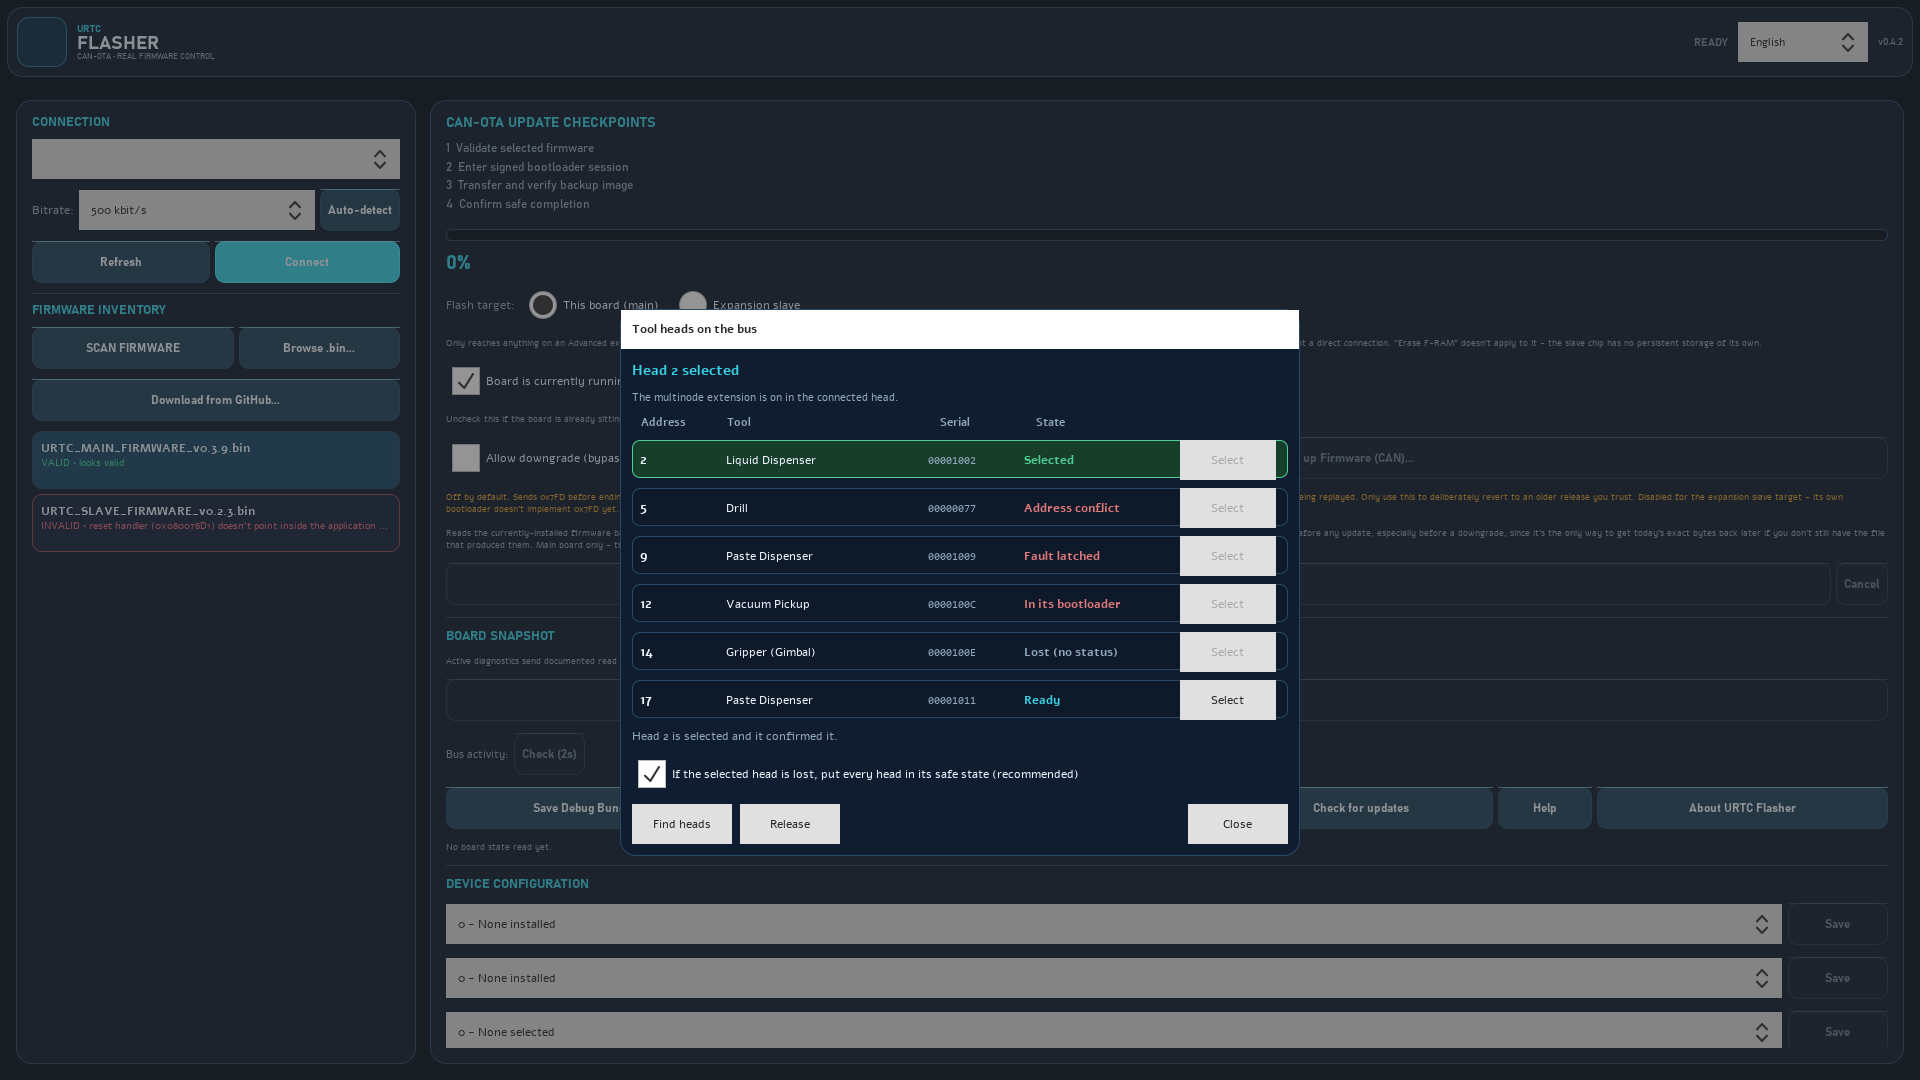
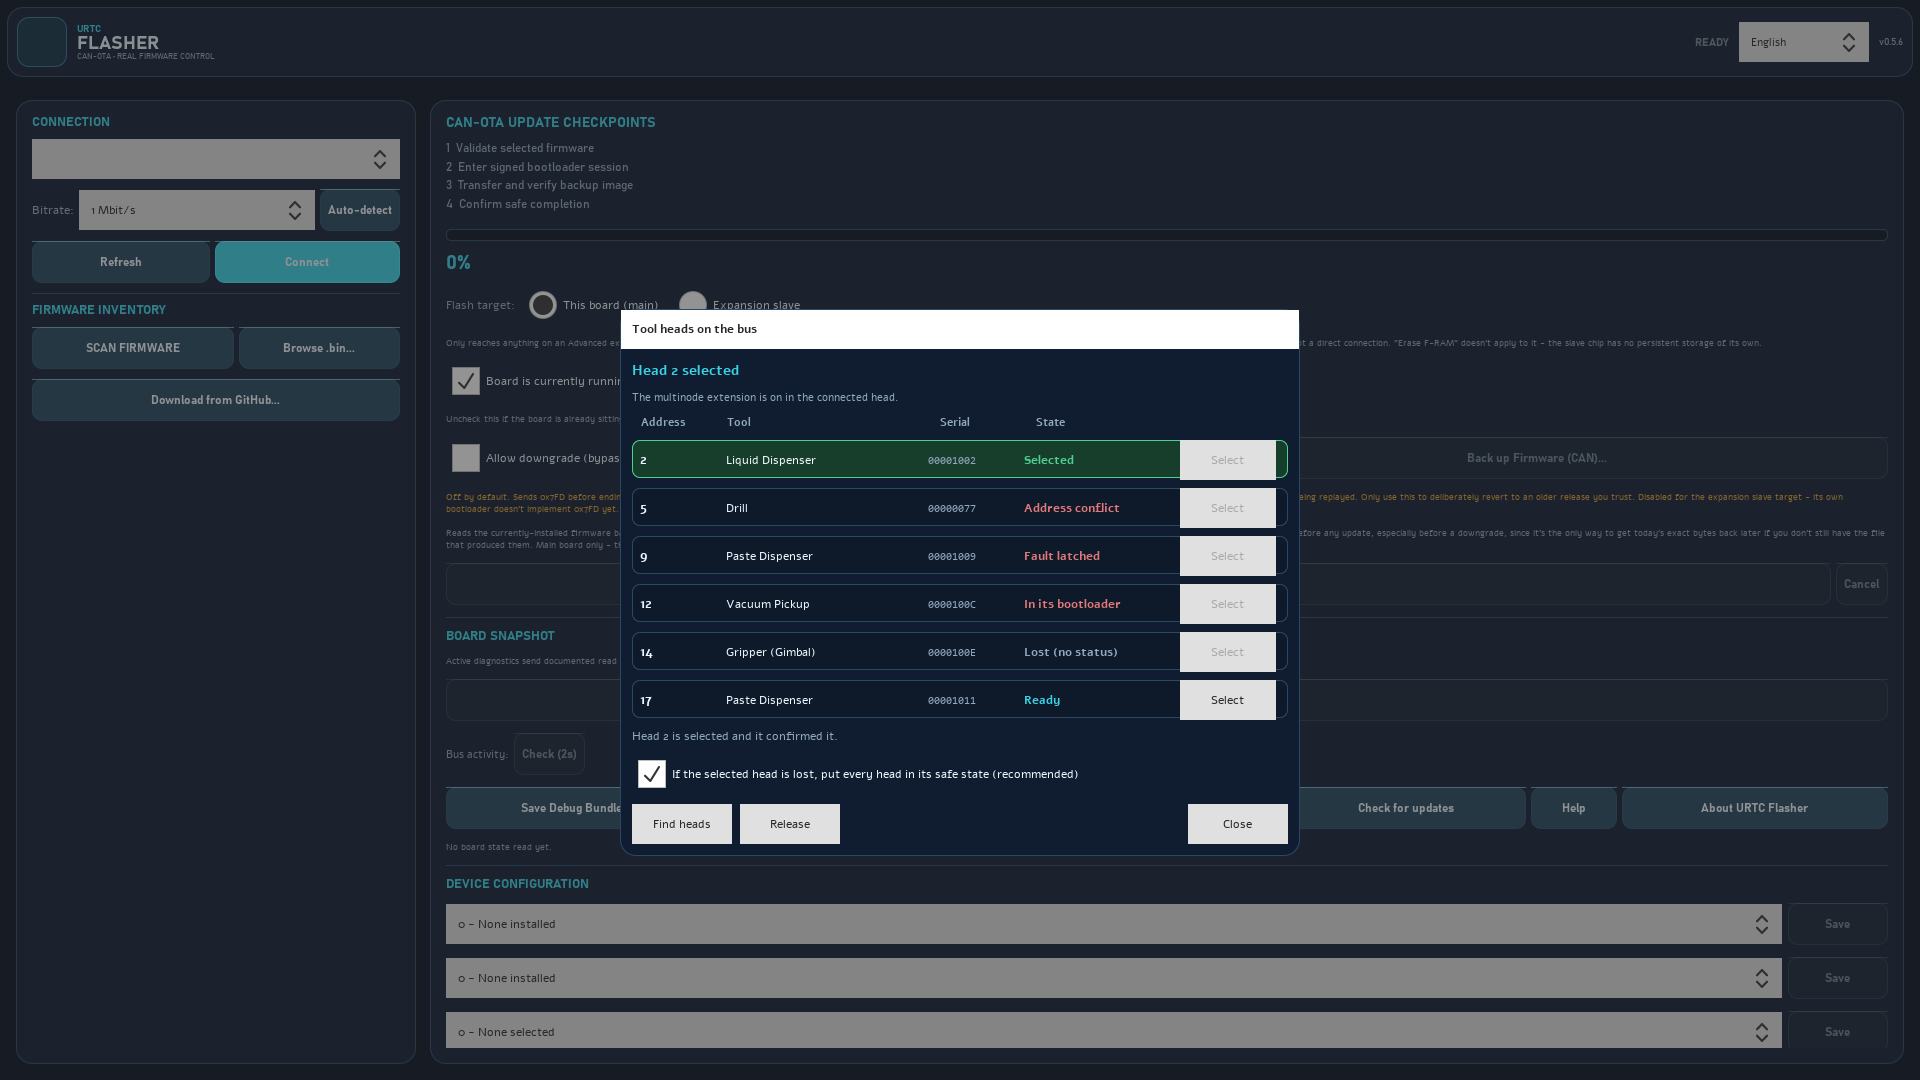
Version 0.5.6

diff --git a/flasher_config.py b/flasher_config.py
@@ -134,7 +134,7 @@ SLAVE_HARDWARE_ID = protocol.HARDWARE_ID_SLAVE  # STM32F303CBT6, expansion slave
 # --version given, or the file name), never a default - an invented one made every later official image look older to the anti-rollback check.
 
 # This tool's OWN version (shown in the banner and window title) - about the flasher script itself.
-FLASHER_VERSION = "0.5.5"
+FLASHER_VERSION = "0.5.6"
 FLASHER_AUTHOR = "JuanenRac"
 
 # --- HMAC signing keys: none by default ---

diff --git a/CHANGELOG.md b/CHANGELOG.md
@@ -2,7 +2,7 @@
 
 All notable changes to this project are documented here.
 
-## [Unreleased]
+## [0.5.6] - The flasher opens the bus at 1 Mbit/s, recognises mixed speeds by their symptoms and reads the header inside the image
 
 - **The plausibility check of an image and the plan of an update are tested at the edges of their ranges:** the stack pointer and the reset handler at both ends of their slots, the exact size limit, files too short or empty or missing, another slot when it is named, the version read from the name of the file only, the data frames rounded up, the numbering of the steps, what force lets through, and generated images judged the same way every time.
 
@@ -23,6 +23,8 @@ All notable changes to this project are documented here.
 - **The German README addresses the reader formally in the contributing list:** the three lines that still used the informal form now use the same formal form as the rest of the text and as the other repositories.
 
 - **The simulated readback tests no longer depend on the speed of the computer:** the simulated board answers at once in the readback tests, so the whole file runs in about one second instead of ten and cannot time out on a busy machine.
+
+## [Unreleased]
 
 ## [0.5.5] - The Spanish texts say "grabar" and "velocidad de bus": the calques "flashear", "flasheo" and "bitrate" are replaced in the window, the guide, the Spanish README and the shared sections, with the gender of the sentence... (and 7 more changes)
 

diff --git a/README_jpn.md b/README_jpn.md
@@ -37,7 +37,7 @@
 
 | | |
 |---|---|
-| バージョン | `0.5.5` |
+| バージョン | `0.5.6` |
 | 成熟度 | 機能する |
 | テスト | 901 (`python -m pytest tests -q`) |
 | 技術 | Python / PySide6 / Qt Quick / CAN-OTA / SWD/JTAG |

diff --git a/README_deu.md b/README_deu.md
@@ -37,7 +37,7 @@
 
 | | |
 |---|---|
-| Version | `0.5.5` |
+| Version | `0.5.6` |
 | Reifegrad | Funktionsfähig |
 | Tests | 901 (`python -m pytest tests -q`) |
 | Technik | Python / PySide6 / Qt Quick / CAN-OTA / SWD/JTAG |

diff --git a/README_fra.md b/README_fra.md
@@ -37,7 +37,7 @@
 
 | | |
 |---|---|
-| Version | `0.5.5` |
+| Version | `0.5.6` |
 | Maturité | Fonctionnel |
 | Tests | 901 (`python -m pytest tests -q`) |
 | Technologie | Python / PySide6 / Qt Quick / CAN-OTA / SWD/JTAG |

diff --git a/README_ita.md b/README_ita.md
@@ -37,7 +37,7 @@
 
 | | |
 |---|---|
-| Versione | `0.5.5` |
+| Versione | `0.5.6` |
 | Maturità | Funzionale |
 | Test | 901 (`python -m pytest tests -q`) |
 | Tecnologia | Python / PySide6 / Qt Quick / CAN-OTA / SWD/JTAG |

diff --git a/README_por.md b/README_por.md
@@ -37,7 +37,7 @@
 
 | | |
 |---|---|
-| Versão | `0.5.5` |
+| Versão | `0.5.6` |
 | Maturidade | Funcional |
 | Testes | 901 (`python -m pytest tests -q`) |
 | Tecnologia | Python / PySide6 / Qt Quick / CAN-OTA / SWD/JTAG |

diff --git a/README_spa.md b/README_spa.md
@@ -37,7 +37,7 @@
 
 | | |
 |---|---|
-| Versión | `0.5.5` |
+| Versión | `0.5.6` |
 | Madurez | Funcional |
 | Tests | 901 (`python -m pytest tests -q`) |
 | Tecnología | Python / PySide6 / Qt Quick / CAN-OTA / SWD/JTAG |

diff --git a/README.md b/README.md
@@ -37,7 +37,7 @@
 
 | | |
 |---|---|
-| Version | `0.5.5` |
+| Version | `0.5.6` |
 | Maturity | Functional |
 | Tests | 901 (`python -m pytest tests -q`) |
 | Stack | Python / PySide6 / Qt Quick / CAN-OTA / SWD/JTAG |

diff --git a/README_zho.md b/README_zho.md
@@ -37,7 +37,7 @@
 
 | | |
 |---|---|
-| 版本 | `0.5.5` |
+| 版本 | `0.5.6` |
 | 成熟度 | 可用 |
 | 测试 | 901 (`python -m pytest tests -q`) |
 | 技术栈 | Python / PySide6 / Qt Quick / CAN-OTA / SWD/JTAG |
